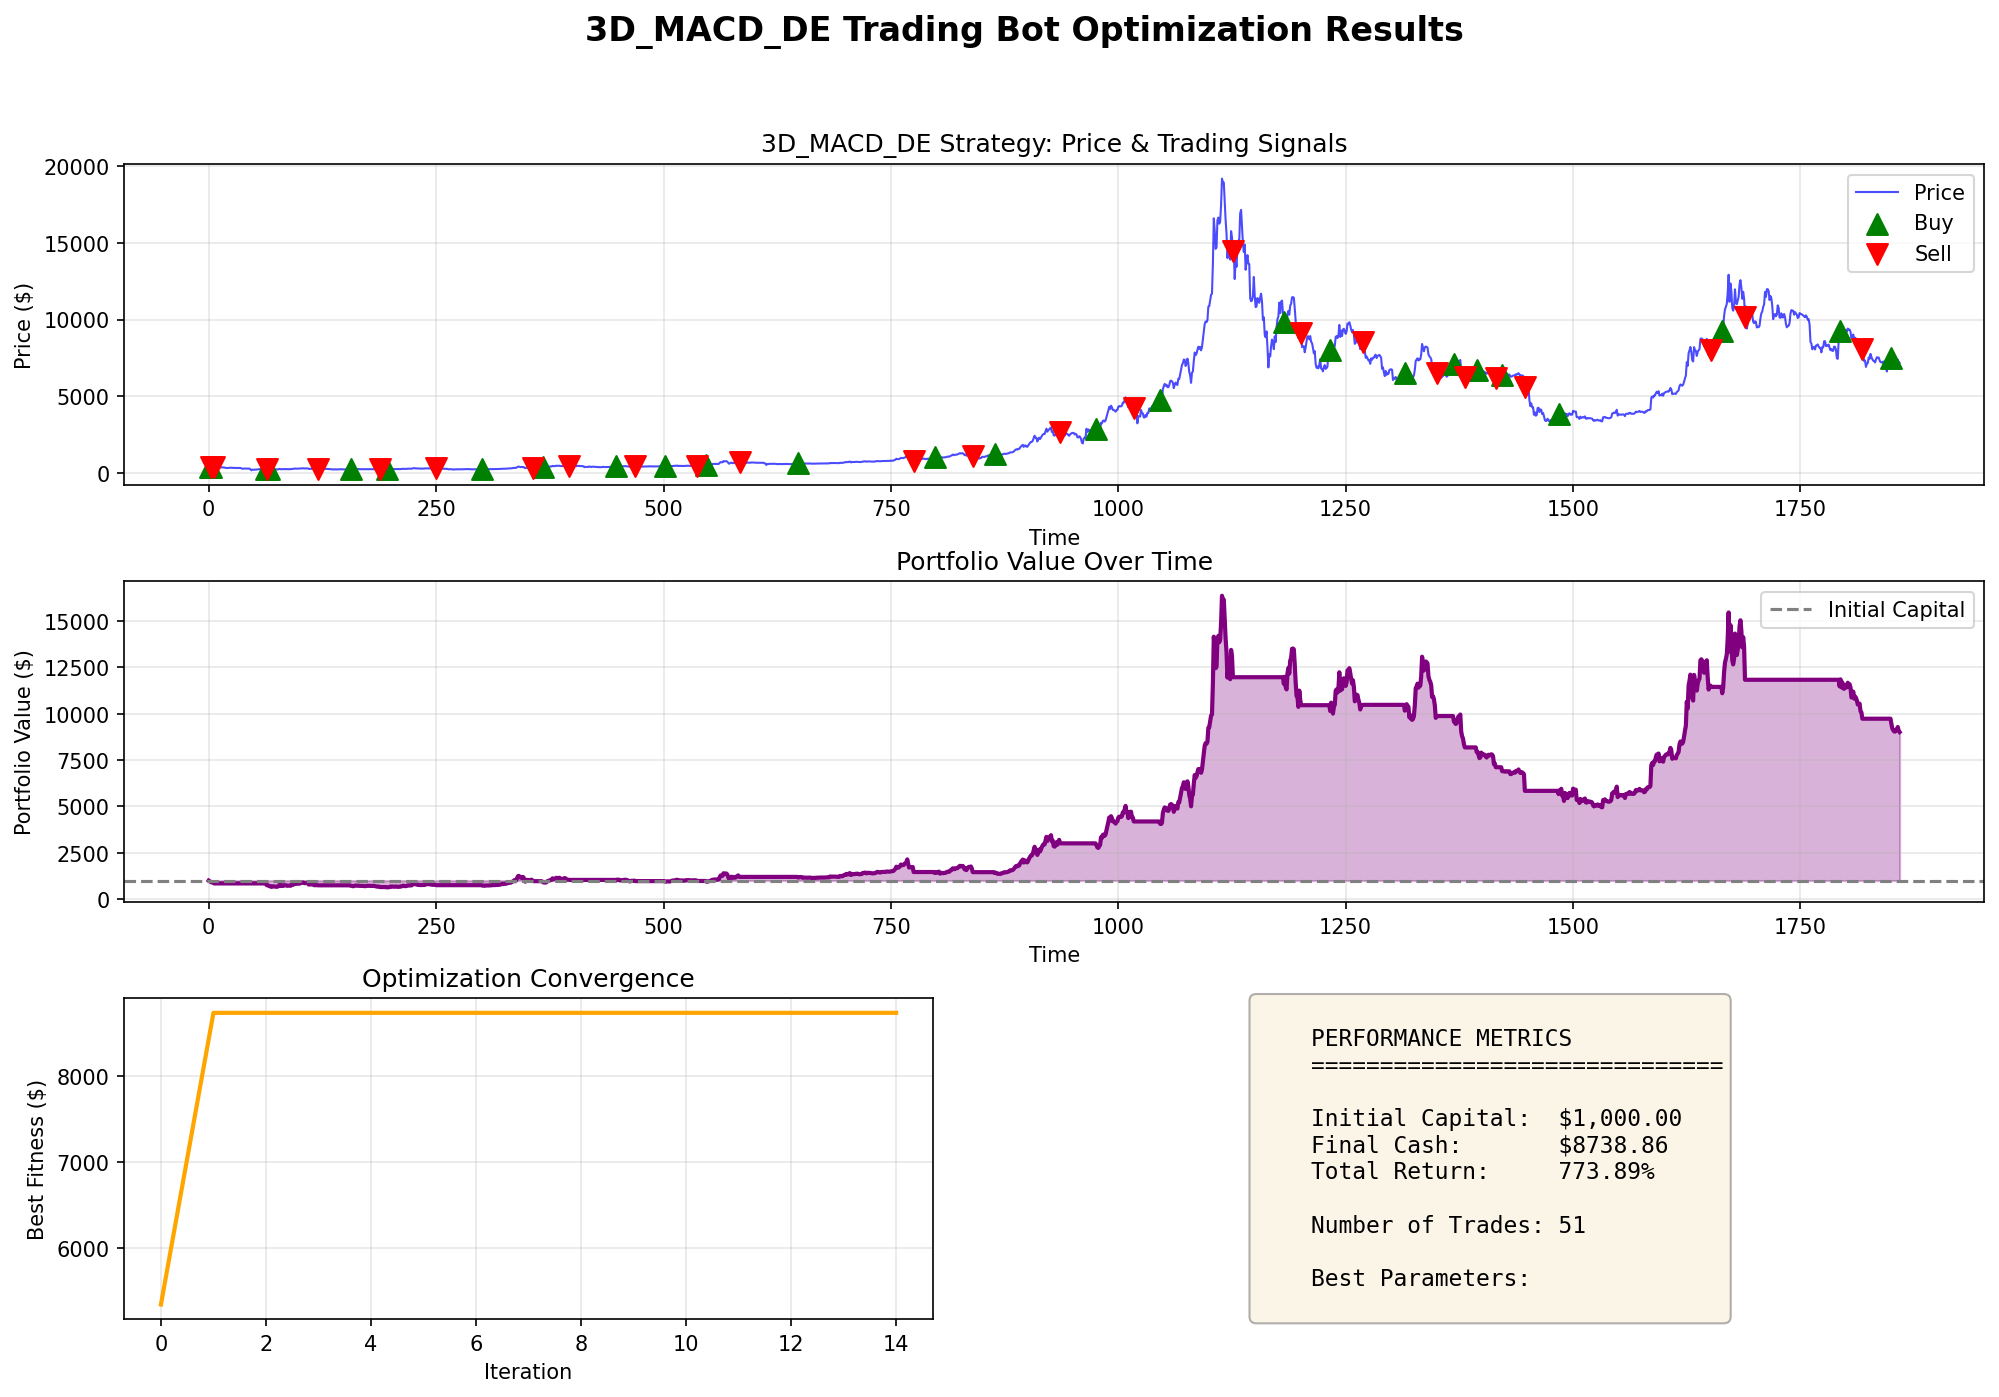
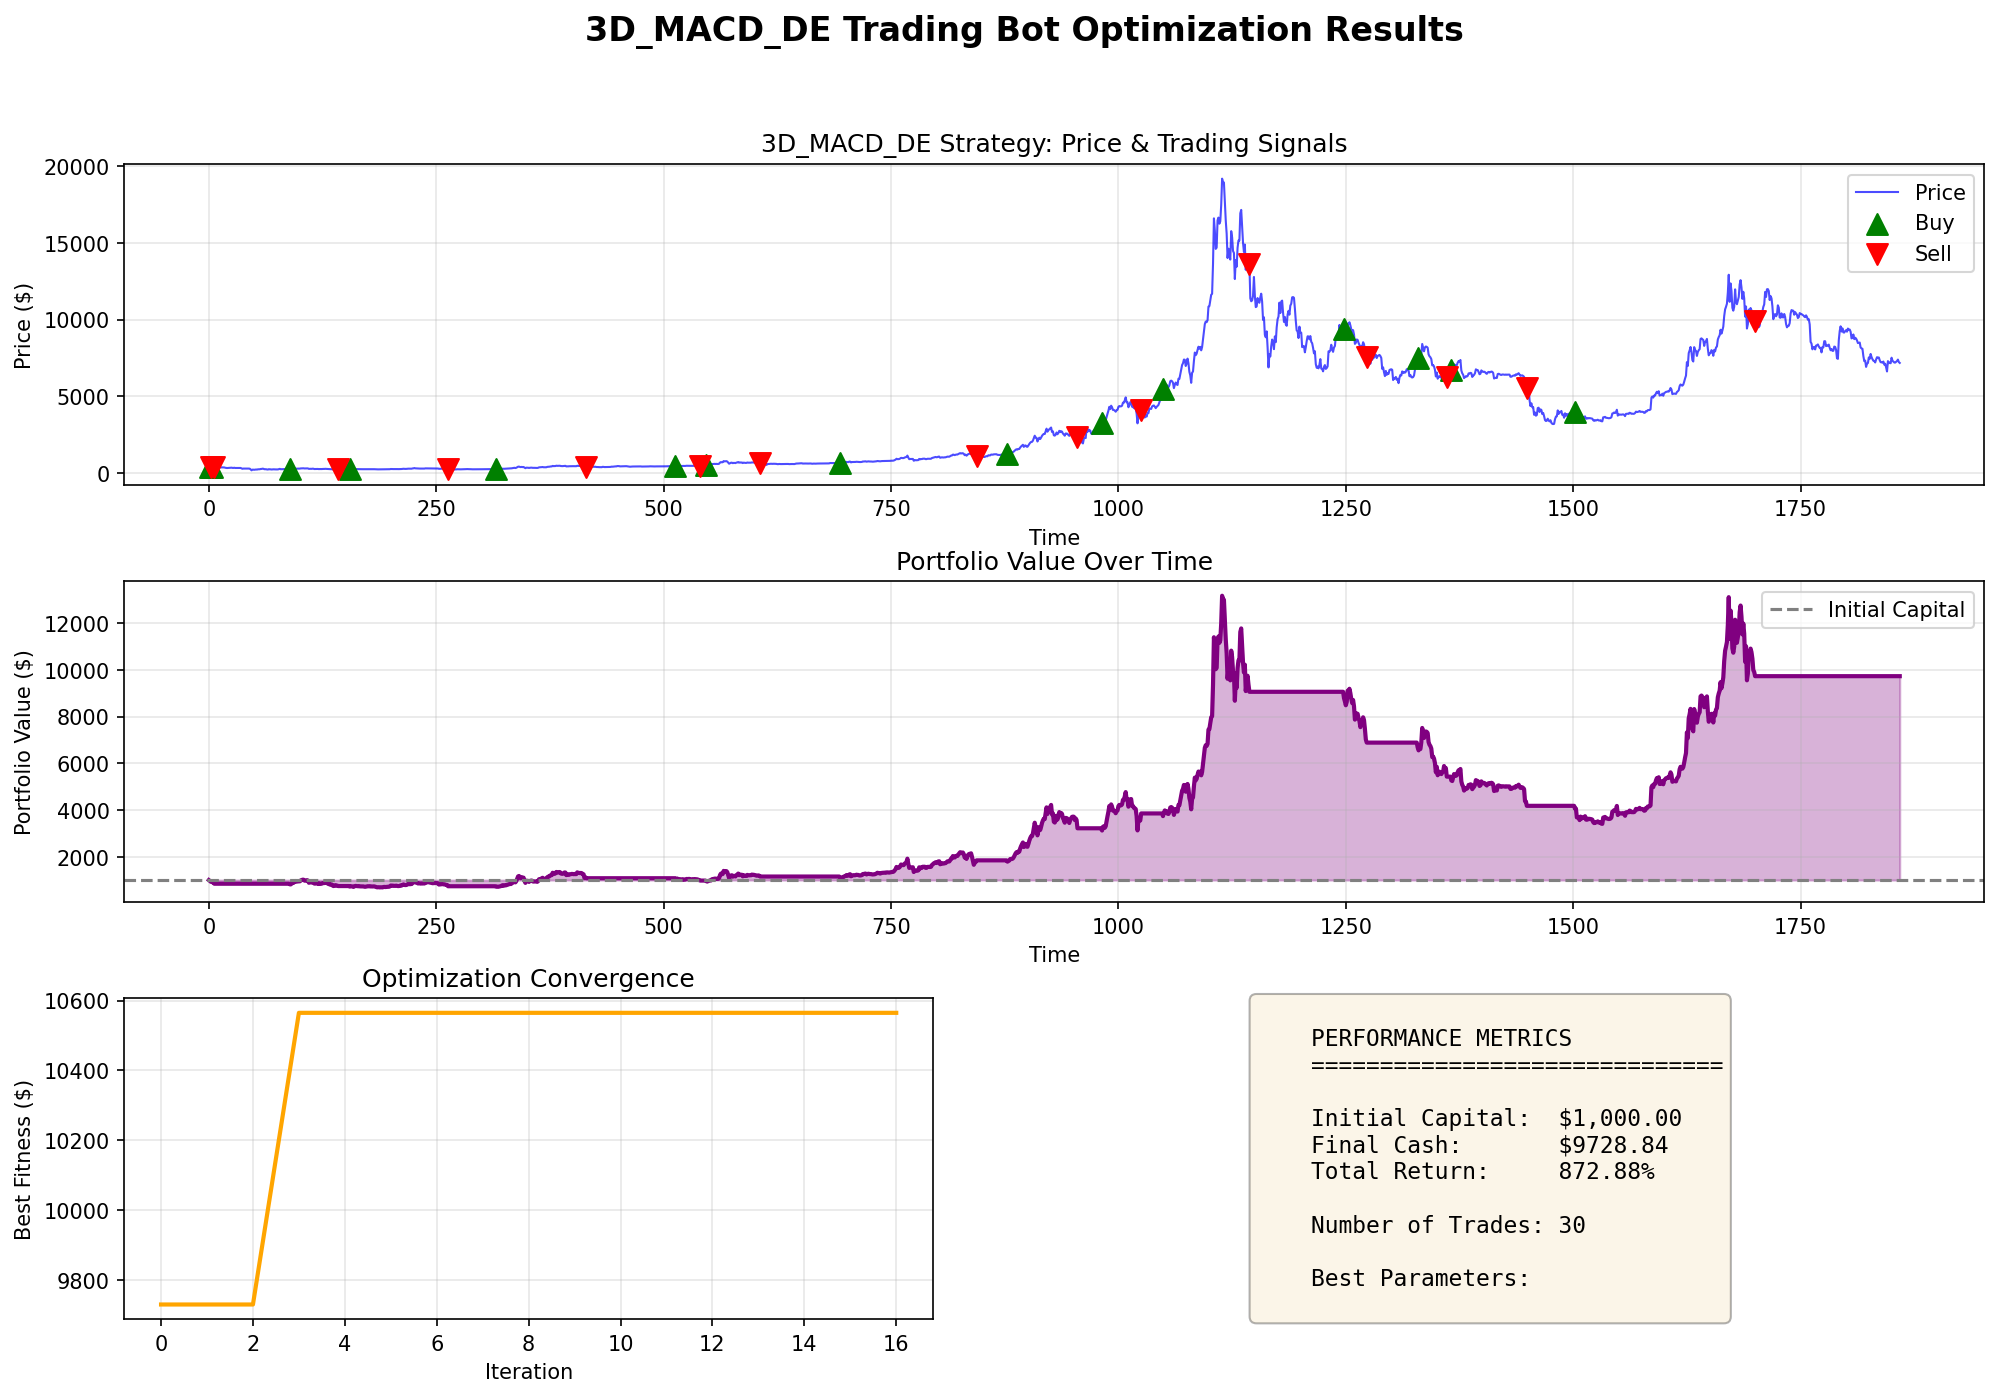
saving just in case

diff --git a/optimisers/abc.py b/optimisers/abc.py
@@ -1,0 +1,101 @@
+from .base import Optimiser
+import numpy as np
+import time
+
+
+class ABC(Optimiser):
+    """
+    Artificial Bee Colony optimiser for trading strategy parameter tuning.
+
+    Each food source represents one candidate parameter set.
+    Fitness is calculated by the TradingBot using bot.evaluate(params).
+    """
+
+    def __init__(self, config, limit=10):
+        super().__init__(config)
+        self.limit = limit
+
+    def fitness(self, bot, params):
+        return bot.evaluate(params)
+
+    def _normalise_to_bounds(self, position, min_b, max_b):
+        return np.clip(position, min_b, max_b)
+
+    def optimise(self, bot):
+        min_b, max_b = np.array(self.bounds).T
+        diff = max_b - min_b
+
+        # Initial food sources
+        foods = min_b + np.random.rand(self.pop_size, self.dim) * diff
+        fitness = np.array([self.fitness(bot, food) for food in foods])
+        trials = np.zeros(self.pop_size)
+
+        best_idx = np.argmax(fitness)
+        best = foods[best_idx].copy()
+        best_fitness = fitness[best_idx]
+
+        start_time = time.time()
+        calls0 = bot.eval_count
+        best_hist = [best_fitness]
+
+        for iteration in self._iter_loop():
+
+            # Employed bee phase
+            for i in range(self.pop_size):
+                k = np.random.choice([idx for idx in range(self.pop_size) if idx != i])
+                phi = np.random.uniform(-1, 1, self.dim)
+
+                candidate = foods[i] + phi * (foods[i] - foods[k])
+                candidate = self._normalise_to_bounds(candidate, min_b, max_b)
+
+                candidate_fitness = self.fitness(bot, candidate)
+
+                if candidate_fitness > fitness[i]:
+                    foods[i] = candidate
+                    fitness[i] = candidate_fitness
+                    trials[i] = 0
+                else:
+                    trials[i] += 1
+
+            # Onlooker bee phase
+            shifted_fitness = fitness - np.min(fitness) + 1e-9
+            probabilities = shifted_fitness / np.sum(shifted_fitness)
+
+            for _ in range(self.pop_size):
+                i = np.random.choice(self.pop_size, p=probabilities)
+                k = np.random.choice([idx for idx in range(self.pop_size) if idx != i])
+                phi = np.random.uniform(-1, 1, self.dim)
+
+                candidate = foods[i] + phi * (foods[i] - foods[k])
+                candidate = self._normalise_to_bounds(candidate, min_b, max_b)
+
+                candidate_fitness = self.fitness(bot, candidate)
+
+                if candidate_fitness > fitness[i]:
+                    foods[i] = candidate
+                    fitness[i] = candidate_fitness
+                    trials[i] = 0
+                else:
+                    trials[i] += 1
+
+            # Scout bee phase
+            for i in range(self.pop_size):
+                if trials[i] >= self.limit:
+                    foods[i] = min_b + np.random.rand(self.dim) * diff
+                    fitness[i] = self.fitness(bot, foods[i])
+                    trials[i] = 0
+
+            current_best_idx = np.argmax(fitness)
+
+            if fitness[current_best_idx] > best_fitness:
+                best_idx = current_best_idx
+                best = foods[best_idx].copy()
+                best_fitness = fitness[best_idx]
+
+            best_hist.append(best_fitness)
+
+            calls_made = bot.eval_count - calls0
+            if self._should_stop(start_time, calls_made, best_hist):
+                break
+
+            yield best, best_fitness

diff --git a/main.py b/main.py
@@ -4,29 +4,17 @@ import argparse
 from trading_system import trading_bot
 from trading_strategies import strategies
 from visualisations import visualisation
-from optimisers import ga, pso, de
+from optimisers import ga, pso, de, abc
 
 
 ALGORITHMS = {
     'PSO': pso.PSO,
     'GA':  ga.GA,
     'DE':  de.DE,
+    'ABC':abc.ABC
 }
 
 STRATEGIES = {
-    '2D_SMA': {
-        'cls':    strategies.SMACrossover,
-        'config': {
-            "pop_size":  30,
-            "max_iter":  100,
-            "dim":       2,
-            "bounds":    [(5, 50), (51, 200)],
-            "max_time":  120,
-            "patience":  15,
-            "min_delta": 1.0,
-        },
-        'diagnostics': [[10, 50], [15, 100], [20, 150], [30, 180]],
-    },
     '3D_MACD': {
         'cls':    strategies.MACDCrossover,
         'config': {
@@ -39,53 +27,6 @@ STRATEGIES = {
             "min_delta": 1.0,
         },
         'diagnostics': [[12, 26, 9], [8, 21, 5], [5, 20, 7]],
-    },
-    '7D_WMA': {
-        'cls':    strategies.WMACrossover7D,
-        'config': {
-            "pop_size":  30,
-            "max_iter":  100,
-            "dim":       7,
-            "bounds":    [
-                (0, 1),         # w1
-                (0, 1),         # w2
-                (0, 1),         # w3
-                (5, 200),       # d1  SMA window
-                (5, 200),       # d2  LMA window
-                (5, 200),       # d3  EMA window
-                (0.01, 0.99),   # alpha
-            ],
-            "max_time":  120,
-            "patience":  15,
-            "min_delta": 1.0,
-        },
-        'diagnostics': [
-            [0.5, 0.3, 0.2, 20, 15, 10, 0.3],
-            [0.3, 0.4, 0.3, 30, 25, 20, 0.5],
-        ],
-    },
-    '14D_WMA': {                              
-        'cls':    strategies.WMACrossover14D,
-        'config': {
-            "pop_size":  30,
-            "max_iter":  100,
-            "dim":       14,
-            "bounds":    [
-                (0, 1), (0, 1), (0, 1),       # weights HIGH
-                (5, 100), (5, 100), (5, 100), # windows HIGH
-                (0.01, 0.99),                  # alpha HIGH
-                (0, 1), (0, 1), (0, 1),       # weights LOW
-                (5, 100), (5, 100), (5, 100), # windows LOW
-                (0.01, 0.99),                  # alpha LOW
-            ],
-            "max_time":  120,
-            "patience":  15,
-            "min_delta": 1.0,
-        },
-        'diagnostics': [
-            [0.5, 0.3, 0.2, 20, 10, 15, 0.3,
-             0.4, 0.4, 0.2, 50, 40, 60, 0.1],
-        ],
     },
 }
 
@@ -193,7 +134,7 @@ def print_summary(results):
         print(f"  {strat:<12} {algo:<8} {scores}")
         i += 1
             
-        if i == 3:
+        if i == 4:
             print("-" * 46)
             i = 0
 
@@ -261,7 +202,7 @@ if __name__ == "__main__":
     if not args.no_diagnostics:
         run_diagnostics(prices_train, args.strategies)
 
-    SEEDS = [42]
+    SEEDS = [42,123,500]
 
     results = {}
     

diff --git a/trading_strategies/strategies.py b/trading_strategies/strategies.py
@@ -43,21 +43,17 @@ class MACDCrossover(BaseStrategy):
         macd_line  = macd_line[-min_len:]
         signal_line = signal_line[-min_len:]
 
-        # ── Generate crossover signal ──────────────────────────
-        # Start neutral
         signals = np.zeros(min_len, dtype=int)
 
-        # Detect actual crossovers
         above = macd_line > signal_line
 
         for i in range(1, min_len):
             if above[i] and not above[i-1]:
-                signals[i] = 1      # crossed above → buy
+                signals[i] = 1      
             elif not above[i] and above[i-1]:
-                signals[i] = -1     # crossed below → sell
+                signals[i] = -1     
 
-        # ── Hold position between crossovers ───────────────────
-        position = -1   # start neutral/short
+        position = -1
         result   = np.zeros(min_len, dtype=int)
 
         for i in range(min_len):
@@ -67,7 +63,6 @@ class MACDCrossover(BaseStrategy):
                 position = -1
             result[i] = position
 
-        # Pad to match original price length
         full_signal = np.full(len(price), result[0])
         full_signal[-min_len:] = result
 
